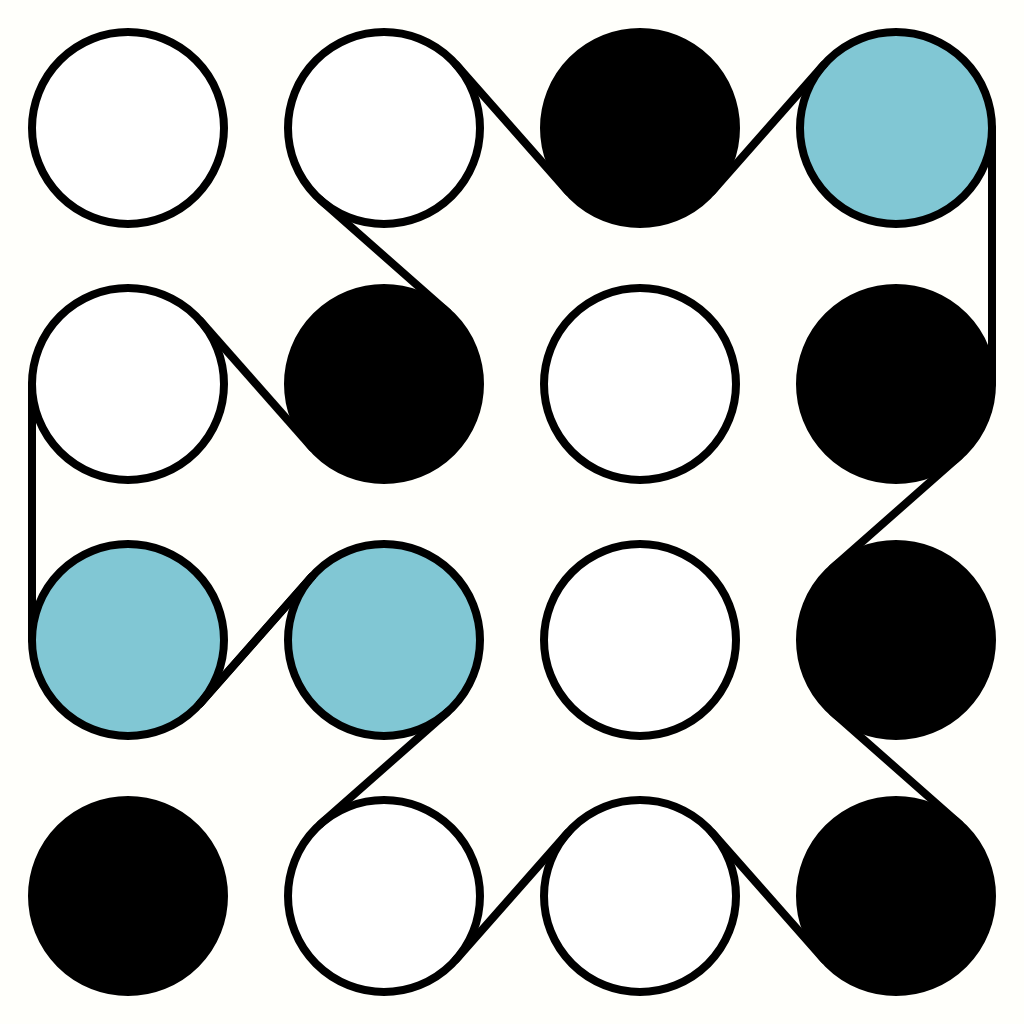
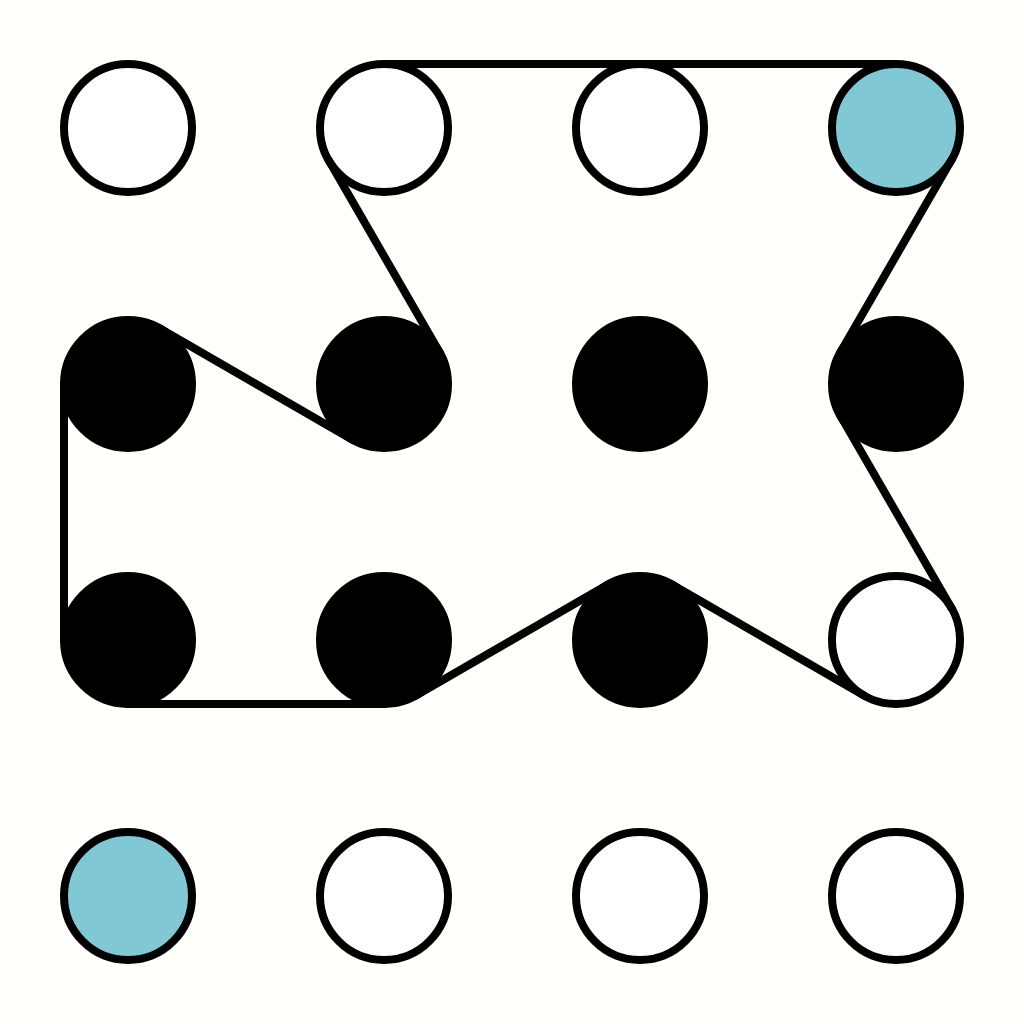
Rotoro varitions

diff --git a/arts/rotoro/src/main/kotlin/dev/oblac/gart/rotoro/Rotoro.kt b/arts/rotoro/src/main/kotlin/dev/oblac/gart/rotoro/Rotoro.kt
@@ -22,11 +22,15 @@ fun main() {
 val background = NipponColors.col234_GOFUN
 val whitePaint = fillOfWhite()
 val blackPaint = fillOfBlack()
+
 val accentPaint = fillOf(NipponColors.col099_TAMAGO)
+//val accentPaint = fillOf(NipponColors.col176_MIZU)
+//val accentPaint = fillOf(NipponColors.col011_NAKABENI)
+
 val strokePaint = Paint().apply {
     color = Color.BLACK
     mode = PaintMode.STROKE
-    strokeWidth = 8f
+    strokeWidth = 20f
     strokeCap = PaintStrokeCap.ROUND
 }
 
@@ -50,8 +54,8 @@ fun draw(canvas: Canvas, canvasWidth: Int) {
 
             // Draw filled circle with appropriate color
             val fillPaint = when (rndi(11)) {
-                in 0..4 -> whitePaint
-                in 5..8 -> blackPaint
+                in 0..6 -> whitePaint
+                in 7..8 -> blackPaint
                 else -> accentPaint
             }
 
@@ -68,13 +72,16 @@ fun draw(canvas: Canvas, canvasWidth: Int) {
     val tape = tape(canvas, cells, circles)
 
     val paths = tape.flatMap { it.allPaths() }.sortedBy { it.size }.reversed()
-    /*val fullPaths = paths.filter { it.size == cells.size + 1 }
-    fullPaths.random().drop(1).apply {
-        this.forEach { canvas.drawLine(it, strokePaint) }
-    }*/
+
+    // Draw the longest path
     paths.first().drop(1).apply {   // the first line is root tree, not correct
         forEach { canvas.drawLine(it, strokePaint) }
     }
+
+    // draw random path
+//    paths.filter { it.size > 10 }.random().drop(1).apply {
+//        forEach { canvas.drawLine(it, strokePaint) }
+//    }
 }
 
 fun tape(canvas: Canvas, cells: List<Cell>, circles: List<Circle>): List<TreeNode<Line>> {
